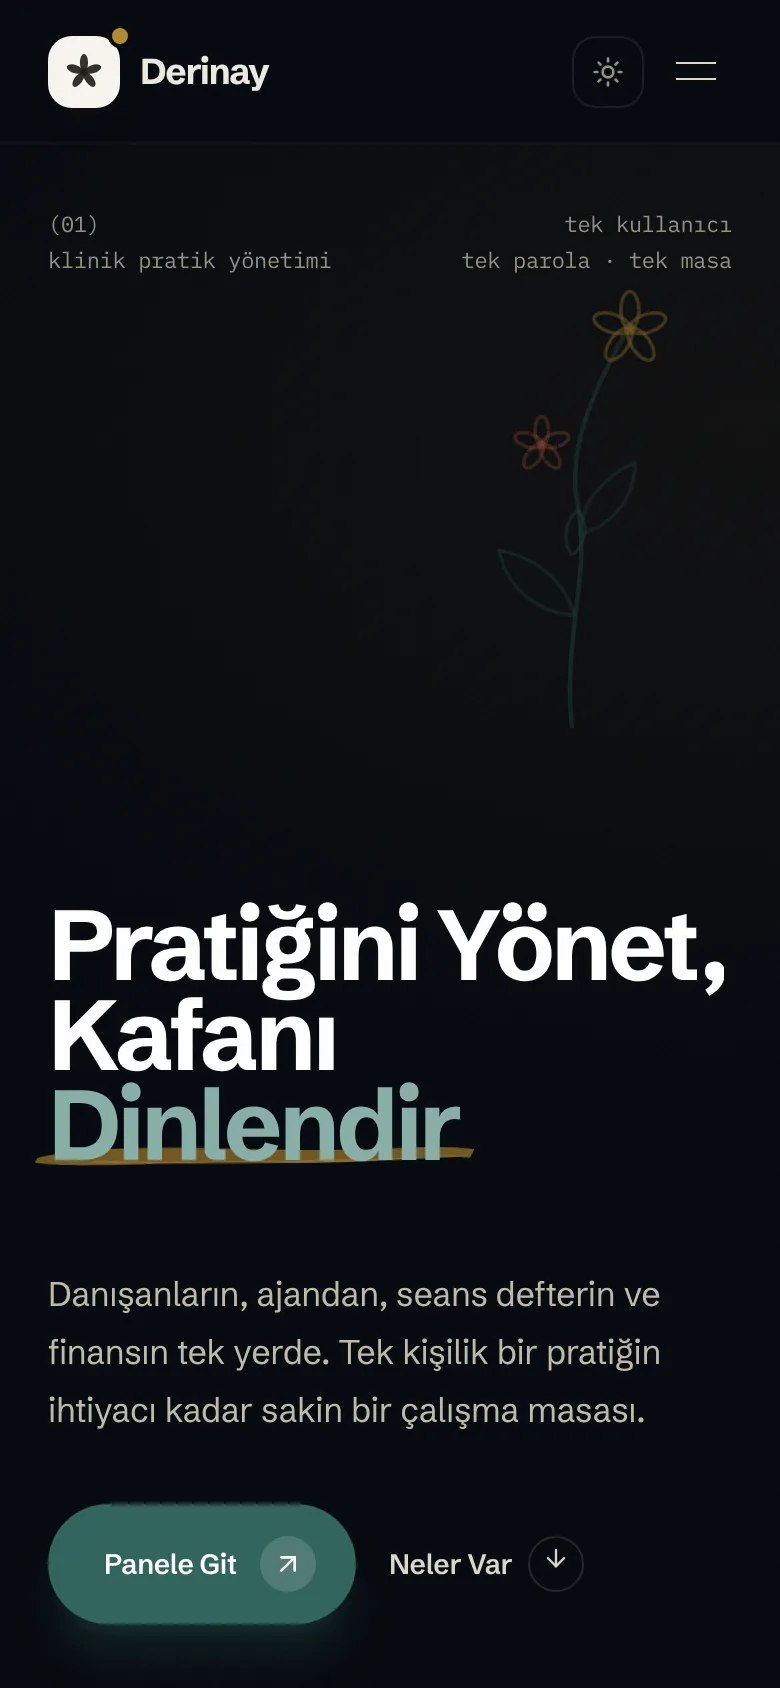
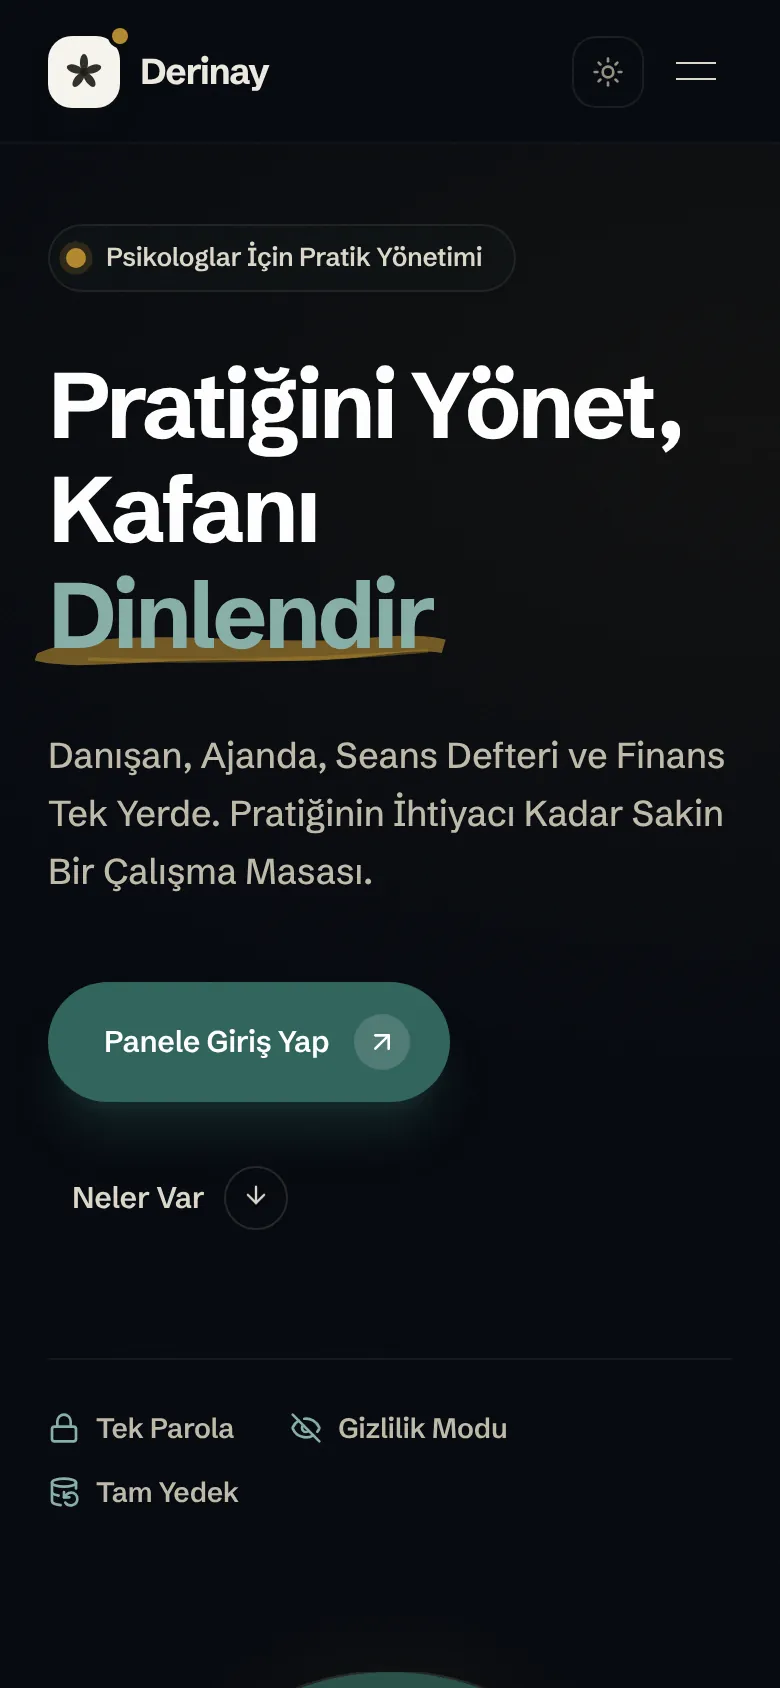
Öne çıkanlar Açılış Zili, DigyNotes ve Derinay; üçü yeni görsellerle
- Öne çıkan projeler ve ana sayfadaki Seçili İşler: ElevenForge yerine
  DigyNotes (sıra: Açılış Zili, DigyNotes, Derinay).
- Üç projenin tam ekran görüntüsü seti (iki tema) ve OG görseli canlı
  siteden yeniden çekildi.
- ElevenForge'un "Floodlight" görselleri, vurgusu ve metni geri alındı
  (e861f30'un tersi); proje kendi reposunda da eski tasarıma döndü.

Claude-Session: https://claude.ai/code/session_016ADWfEhpTTUmHxukV71rS7

diff --git a/lib/content/project-shots.ts b/lib/content/project-shots.ts
@@ -6,11 +6,13 @@ import { projectShot, type ShotView } from '@/lib/project-shot'
  * da silinirse burası da değişir.
  *
  * - Tam set (desktop + desktop-2 + mobile, 2160×1350 / 780×1688): yeni
- *   çekimler. digynotes, derinay ("Atölye Sahnesi") ve elevenforge
- *   ("Floodlight") 9 Ekim 2026'da yeniden tasarımla tam sete geçti.
+ *   çekimler. digynotes ve derinay 9 Ekim 2026'da yeniden tasarımla tam
+ *   sete geçti.
  *   karalama ve dungeon-mates yalnız KOYU temalı: iki dosya da
  *   koyu, o yüzden `themed: false` (tek görsel, ikisini indirmeye gerek yok).
  * - Yalnız desktop, 1280×800: eski görselin kopyası; iki dosya aynı.
+ * - elevenforge: eski desktop + yeni mobile (780×1688), tek temalı.
+ *   "Floodlight" revizyonu 9 Ekim 2026'da geri alındı; görseller de eskiye döndü.
  * - dev-starter: ekran görüntüsü yok, README afişi (1280×360, iki temalı SVG).
  *   Afişteki başlık gradyanla DOLDURULMAZ: WebKit `<img>` içindeki SVG'de
  *   gradyanlı metni düşük çözünürlükte basıp büyütüyor ve iPhone'da yalnız
@@ -42,6 +44,11 @@ const FULL = { desktop: { width: 2160, height: 1350 }, 'desktop-2': { width: 216
 const LEGACY = { desktop: { width: 1280, height: 800 } } as const
 const ALL_VIEWS = ['desktop', 'desktop-2', 'mobile'] as const
 const DESKTOP_ONLY = ['desktop'] as const
+/* Eski masaüstü çekimi + yeni telefon çekimi (4 Ekim 2026): ana sayfanın
+   Öne Çıkan Projeler panelinde telefon ekranı olmayan iki proje kalıyordu.
+   Canlı siteden 390×844, 2x; ölçü tam setin telefonuyla aynı. */
+const LEGACY_WITH_MOBILE = { desktop: LEGACY.desktop, mobile: FULL.mobile } as const
+const DESKTOP_AND_MOBILE = ['desktop', 'mobile'] as const
 
 export const PROJECT_SHOTS = {
   'acilis-zili': { views: ALL_VIEWS, themed: true, size: FULL },
@@ -52,6 +59,7 @@ export const PROJECT_SHOTS = {
   karalama: { views: ALL_VIEWS, themed: false, size: FULL, darkInk: true },
   'dungeon-mates': { views: ALL_VIEWS, themed: false, size: FULL, darkInk: true },
   harfiyen: { views: DESKTOP_ONLY, themed: false, size: LEGACY, darkInk: true },
+  elevenforge: { views: DESKTOP_AND_MOBILE, themed: false, size: LEGACY_WITH_MOBILE, darkInk: true },
   /* "Atölye Sahnesi" görsel revizyonu sonrası tam set (9 Ekim 2026): landing
      kahramanı, vitrindeki panel kesiti ve telefon kahramanı; iki temalı.
      desktop-2 iki temada da koyu: vitrin landing'in "gece adası", tema
@@ -62,9 +70,6 @@ export const PROJECT_SHOTS = {
   /* Yeniden tasarım sonrası tam set (9 Ekim 2026): landing hero, notlar
      sayfası ve telefon hero'su; iki temalı. */
   digynotes: { views: ALL_VIEWS, themed: true, size: FULL },
-  /* "Floodlight" görsel revizyonu sonrası tam set (9 Ekim 2026): landing
-     hero, uygulama ana ekranı ve telefon hero'su; iki temalı. */
-  elevenforge: { views: ALL_VIEWS, themed: true, size: FULL },
 } as const satisfies Record<string, ShotSet>
 
 export type ShotSlug = keyof typeof PROJECT_SHOTS

diff --git a/lib/content/projects.ts b/lib/content/projects.ts
@@ -93,17 +93,15 @@ export const projects: Project[] = [
     description:
       '16 arkadaşın aynı ligde yarıştığı Türkçe futbol menajerlik oyunu. Davet koduyla katılıyorsun, boş kalan yerleri bot dolduruyor, kadronu ve taktiğini kuruyorsun; maçlar ligi kuran kişinin seçtiği saatte simüle ediliyor ve canlı anlatımla izleniyor.',
     detail:
-      'Maç motoru deterministik: fikstür kimliğinden üretilen tohum, aynı maçı tekrar oynattığında aynı skoru veriyor. Transfer pazarında iyimser kilitleme var: on alıcıdan yalnızca biri kazanıyor. Arayüz stadyum ışıkları altında bir gece maçı gibi: açılışta saha çizgileri kendini çiziyor, sayfa kaydırdıkça hikâye anlatıyor, ekranlar arasında View Transitions ile geçiliyor.',
-    tags: ['Next.js 16', 'React 19', 'Drizzle', 'TypeScript', 'Framer Motion', 'Cron'],
+      'Maç motoru deterministik: fikstür kimliğinden üretilen tohum, aynı maçı tekrar oynattığında aynı skoru veriyor. Transfer pazarında iyimser kilitleme var: on alıcıdan yalnızca biri kazanıyor.',
+    tags: ['Next.js 16', 'React 19', 'Drizzle', 'TypeScript', 'Cron'],
     link: 'https://elevenforge.vercel.app',
     github: 'https://github.com/ahmetakyapi/elevenforge',
-    /* "Floodlight" revizyonu (9 Ekim 2026): indigo → zümrüt marka gradyanı;
-       zemin tonu açık temadaki indigo vurgu. */
-    accent: '#818cf8',
-    tint: '#4f46e5',
-    gradient: 'linear-gradient(135deg, #6366f1 0%, #10b981 100%)',
+    accent: '#22c55e',
+    tint: '#16a34a',
+    gradient: 'linear-gradient(135deg, #22c55e 0%, #15803d 100%)',
     badge: 'Canlı',
-    featured: true,
+    featured: false,
   },
   {
     id: 6,
@@ -124,7 +122,7 @@ export const projects: Project[] = [
     tint: '#5b42d6',
     gradient: 'linear-gradient(135deg, #b9a8ff 0%, #5b42d6 100%)',
     badge: 'Canlı',
-    featured: false,
+    featured: true,
   },
   {
     id: 7,

diff --git a/lib/project-order.ts b/lib/project-order.ts
@@ -3,8 +3,8 @@ import type { Project } from '@/lib/content/types'
 /**
  * Proje sırası: öne çıkanlar önce, geri kalanlar ORDER'daki sırayla.
  *
- * Sıra sahibinin kararı (4 Ekim 2026): öne çıkanlar Açılış Zili, Derinay,
- * ElevenForge; ardından dev-starter, sonra geri kalanlar. Listede olmayan
+ * Sıra sahibinin kararı (9 Ekim 2026): öne çıkanlar Açılış Zili, DigyNotes,
+ * Derinay; ardından dev-starter ve ElevenForge, sonra geri kalanlar. Listede olmayan
  * proje sona, veri dosyasındaki sırasıyla düşer (yeni proje kaybolmaz).
  *
  * Saf fonksiyon kendi dosyasında: `lib/site-content.ts` varsayılan içerik
@@ -14,16 +14,16 @@ import type { Project } from '@/lib/content/types'
  */
 const ORDER = [
   'acilis-zili',
+  'digynotes',
   'derinay',
-  'elevenforge',
   'dev-starter',
+  'elevenforge',
   'mimio',
   'onepiece-hub',
   'harfiyen',
   'karalama',
   'dungeon-mates',
   'keskealsaydim',
-  'digynotes',
   'ramazan-vakitleri',
   'ahmetakyapi-com',
 ] as const

diff --git a/lib/site-content.ts b/lib/site-content.ts
@@ -75,14 +75,14 @@ export const defaultHomeContent: HomeContent = {
         'ABD piyasasını Türkçe takip etmek için kurduğum site: bilanço takvimi, analizler, makro göstergeler ve günlük bülten aynı yerde.',
     },
     {
+      slug: 'digynotes',
+      summary:
+        'İzlediğin filmleri, okuduğun kitapları, oynadığın oyunları ve gezdiğin yerleri not ettiğin kişisel bir defter: puan, etiket, koleksiyon ve takip ettiklerinin notları.',
+    },
+    {
       slug: 'derinay',
       summary:
         'Tek kişilik bir klinik pratiğin yönetim paneli: gelir-gider, danışan, seans, fatura, ödeme ve vergi takibi tek sakin arayüzde.',
-    },
-    {
-      slug: 'elevenforge',
-      summary:
-        '16 arkadaşın aynı ligde yarıştığı Türkçe futbol menajerlik oyunu. Davet koduyla katılıyorsun, boş yerleri bot dolduruyor, maçlar ligi kuranın seçtiği saatte oynanıyor.',
     },
   ],
   /* Sahibinin kendi metni, kelimesine dokunulmaz (Ekim 2026). Yalnız ürün
